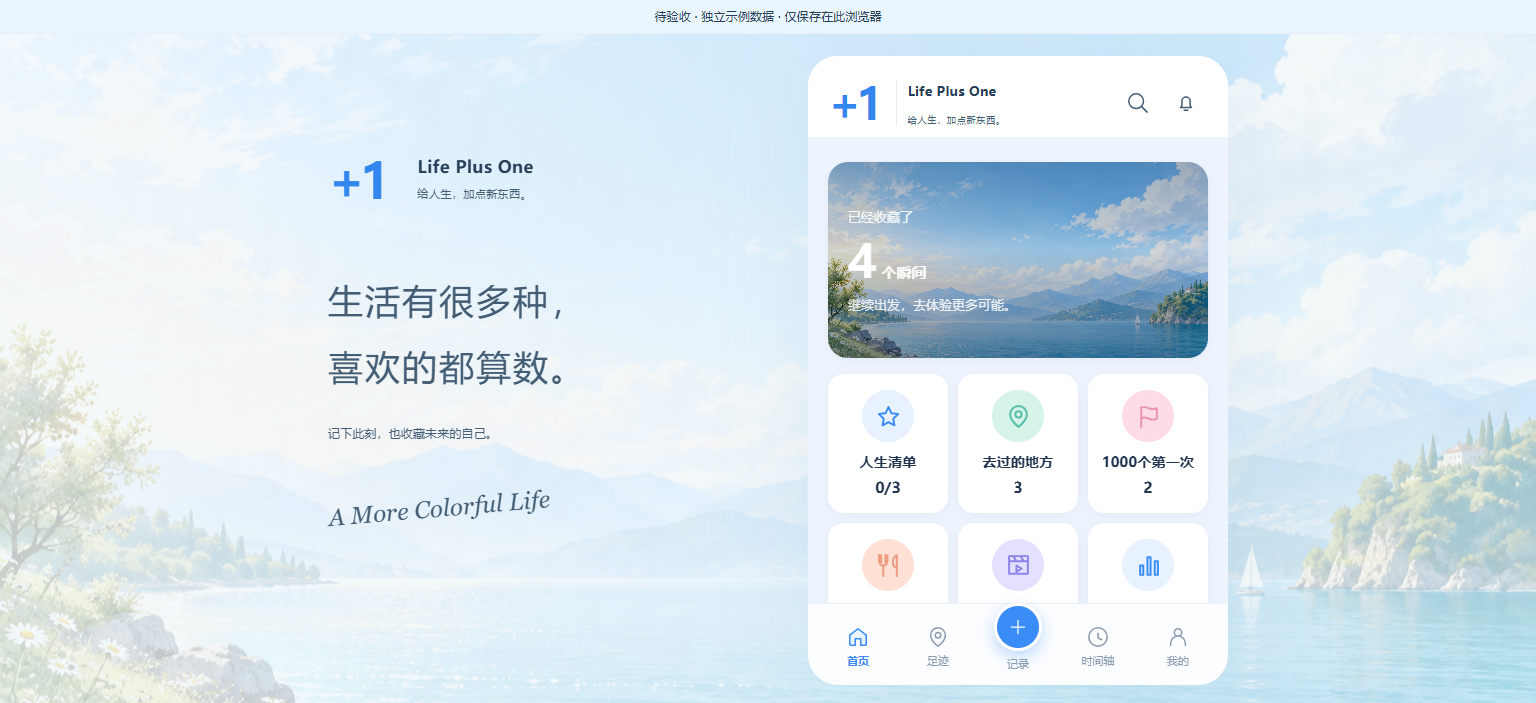
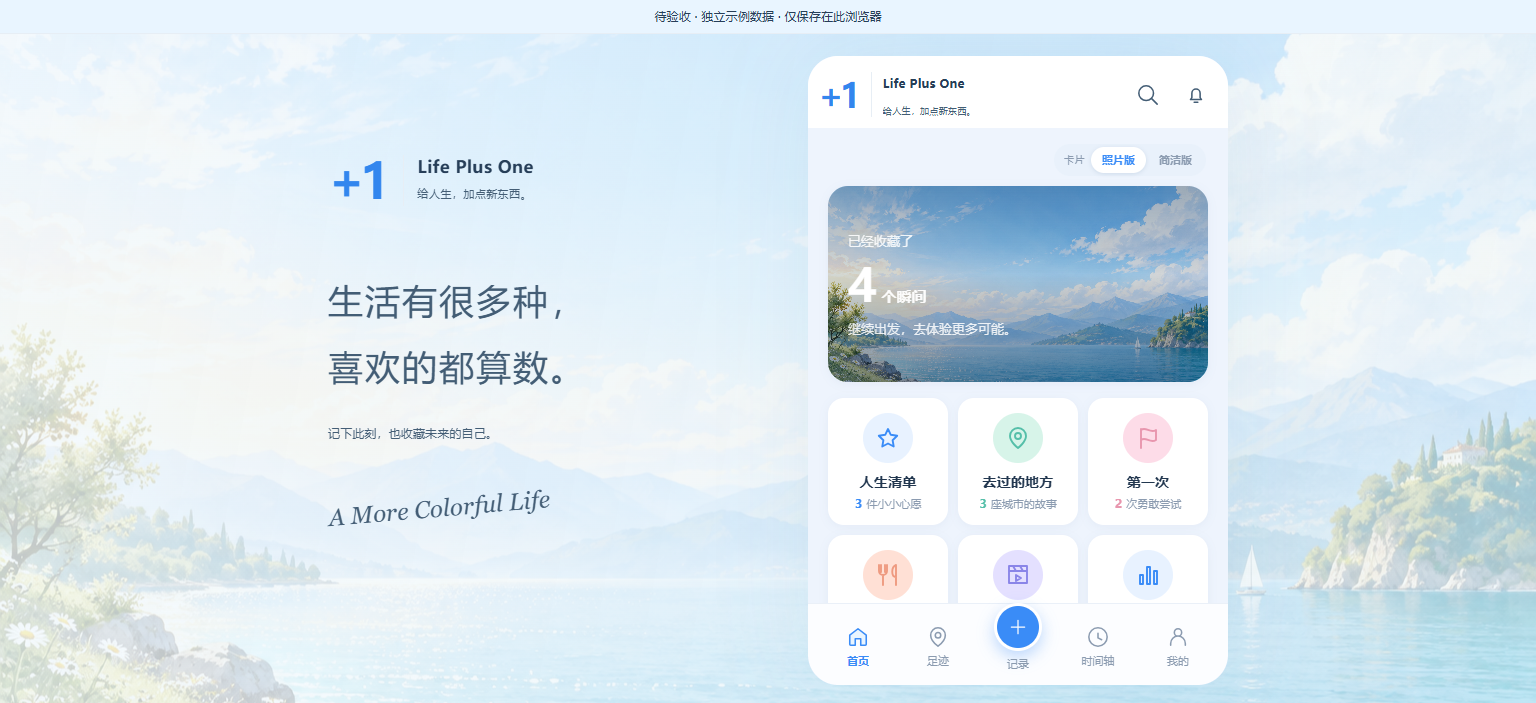
home: smaller wordmark, switchable hero format, codex module copy
- brand: +1 44px -> 34px, name 12px, sub 8.5px; sits 10px/22px from the panel corner
- desktop panel: first-child negative margin is clamped by the scroll container, so the
  lift comes from .page-content.page-home padding-top (16px) instead
- hero: new "classic" format (codex light gradient + right-hand photo + blue number + +1
  badge + caption) selectable from a pill switch next to the greeting row; stored in
  life-plus-one-review-home-style and kept across reloads
- modules: codex copy (3 件小小心愿 / 3 座城市的故事 / 2 次勇敢尝试 / 1 份味觉记忆 /
  0 场光影之旅 / 关于我的小小宇宙) with the count in each tile's accent colour
- switch keeps a 44px hit area while looking like a 28px pill (verify-experience enforces it)
- add verify-home-cards.cjs; verify-experience 77+5 checks and verify-desktop-shell still pass

diff --git a/prototype.css b/prototype.css
@@ -53,10 +53,50 @@
 }
 
 /* ── 首页品牌栏 ───────────────────────────────────
- * logo 完全沿用 codex 原样（字号 / 字重 / 字距都不覆盖）。 */
+ * 字形与字重沿用 codex 原样，整体收小一档并贴近左上角。
+ * 桌面面板里首个子元素的负外边距会被滚动容器夹住，所以靠页面留白上提。 */
+.phone .app-header { margin: -6px 0 18px; }
+.phone > .page-content.page-home { padding-top: 20px; }
+.phone .app-header .brand { gap: 11px; }
+.phone .app-header .brand > b { font-size: 34px; letter-spacing: -4px; padding-right: 3px; }
+.phone .app-header .brand > span { font-size: 12px; padding-left: 11px; }
+.phone .app-header .brand small { font-size: 8.5px; margin-top: 4px; letter-spacing: .8px; }
 .header-tools { gap: 4px; }
 .header-tools .icon-button { width: var(--pro-tap); height: var(--pro-tap); }
 .hello-line { display: none; }
+
+/* ── 首页卡片样式切换（照片版 / 简洁版） ──────────────
+ * 视觉上是小胶囊，按钮盒仍保留 44px 触控区（验收脚本会检查）。 */
+.home-toolbar { display: flex; align-items: center; justify-content: flex-end; gap: 6px; margin: 0 2px 4px; }
+.home-toolbar .hello-line {
+  display: flex;
+  align-items: center;
+  justify-content: space-between;
+  gap: 7px;
+  flex: 1;
+  min-width: 0;
+  margin: 0;
+  font: 500 12px/18px var(--font-ui);
+  color: var(--pro-sub);
+  white-space: nowrap;
+  overflow: hidden;
+}
+.home-toolbar .hello-line .icon { width: 16px; height: 16px; color: var(--greeting-sun); flex-shrink: 0; }
+.style-switch { display: inline-flex; align-items: center; flex-shrink: 0; }
+.style-switch-label { padding: 0 5px 0 2px; font: 500 10px/16px var(--font-ui); color: var(--pro-sub); letter-spacing: .5px; }
+.style-switch button { display: grid; place-items: center; min-height: var(--pro-tap); min-width: var(--pro-tap); padding: 0 2px; border: 0; background: transparent; }
+.style-switch button > span {
+  display: grid;
+  place-items: center;
+  height: 28px;
+  padding: 0 12px;
+  border-radius: 999px;
+  font: 600 11px/16px var(--font-ui);
+  color: var(--pro-sub);
+  white-space: nowrap;
+  transition: background .2s, color .2s;
+}
+.style-switch button.is-on > span { background: var(--pro-blue-wash); color: var(--pro-blue); box-shadow: inset 0 0 0 1px rgba(58, 140, 247, .22); }
 
 /* ── 首页 Hero：湖景照片 + 白色大数字 ───────────────── */
 .life-banner {
@@ -90,38 +130,68 @@
 .banner-copy p { font: 500 13px/20px var(--font-ui); color: rgba(255, 255, 255, .86); }
 .banner-caption { display: none; }
 
-/* ── 六宫格：彩色圆底图标 + 数字统计 ────────────────── */
+/* codex 简洁版卡片：浅色渐变 + 右侧露出照片 + 深蓝数字 + 落款 */
+.life-banner.style-classic { min-height: 168px; padding: 22px 20px; background: var(--blue-soft); }
+.life-banner.style-classic:before { background-position: center 61%; }
+.life-banner.style-classic:after { background: linear-gradient(90deg, var(--hero-wash-start), var(--hero-wash-mid) 62%, var(--hero-wash-end)); }
+.life-banner.style-classic .banner-copy { color: var(--pro-sub); }
+.life-banner.style-classic .banner-copy > span { font: 500 12px/18px var(--font-ui); color: var(--pro-sub); }
+.life-banner.style-classic .banner-copy > div { margin: 7px 0 10px; font: 500 12px/18px var(--font-ui); color: var(--pro-sub); }
+.life-banner.style-classic .banner-copy strong { font: 600 42px/50px var(--font-ui); letter-spacing: -.01em; color: var(--blue-deep); }
+.life-banner.style-classic .banner-copy em {
+  display: inline-block;
+  align-self: flex-start;
+  margin-top: 5px;
+  padding: 3px 8px;
+  border-radius: 10px;
+  background: rgba(255, 255, 255, .85);
+  font: 600 13px/18px var(--font-ui);
+  font-style: normal;
+  color: var(--pro-blue);
+}
+.life-banner.style-classic .banner-copy p { font: 500 11px/17px var(--font-ui); color: var(--pro-sub); }
+.life-banner.style-classic .banner-caption {
+  display: block;
+  position: absolute;
+  right: 16px;
+  bottom: 14px;
+  font: italic 13px Georgia, serif;
+  color: #7d95ad;
+  transform: rotate(-7deg);
+}
+
+/* ── 六宫格：彩色圆底图标 + codex 的说明文案 ────────── */
 .modules { gap: 10px; margin-block: 16px 20px; }
 .module {
   --tile: var(--pro-surface);
   background: var(--pro-surface);
   border: 0;
   border-radius: var(--pro-r-md);
-  padding: 16px 6px 14px;
-  min-height: 112px;
+  padding: 15px 5px 13px;
+  min-height: 106px;
   gap: 0;
   box-shadow: var(--pro-shadow);
 }
 .module .module-icon {
-  width: 52px;
-  height: 52px;
-  margin-bottom: 10px;
+  width: 50px;
+  height: 50px;
+  margin-bottom: 9px;
   border-radius: 50%;
   background: var(--icon-wash);
   color: var(--tone);
   filter: none;
 }
-.module .module-icon .icon { width: 25px; height: 25px; fill: none; stroke-width: 1.9; }
+.module .module-icon .icon { width: 24px; height: 24px; fill: none; stroke-width: 1.9; }
 .module strong { font: 600 14px/20px var(--font-ui); color: var(--pro-ink); }
 .module small,
 .module .module-number {
   display: block;
-  margin-top: 5px;
-  font: var(--pro-num);
-  color: var(--pro-ink);
+  margin-top: 4px;
+  font: 500 11px/16px var(--font-ui);
+  color: var(--pro-sub);
   white-space: nowrap;
 }
-.module small { font: var(--pro-num); color: var(--pro-ink); }
+.module small b { margin-right: 1px; font: 700 12px/16px var(--font-ui); color: var(--tone); }
 
 .module.wish { --tile: var(--pro-surface); --tone: var(--pro-blue); --icon-wash: var(--pro-blue-wash); }
 .module.place { --tone: var(--place); --icon-wash: var(--place-icon-wash); }
@@ -480,8 +550,12 @@
     height: calc(100dvh - 74px);
   }
 
+  /* 品牌栏贴近左上角；sticky 的 top 与 padding-top 保持一致，滚动时不遮挡内容 */
+  .phone .app-header { top: -16px; margin: -16px -24px 16px; padding: 16px 14px 10px; }
+  .phone > .page-content.page-home { padding-top: 16px; }
+
   /* 滚动后的紧凑页眉：缩得更多，占的版面更少 */
-  .phone .app-header.is-compact { padding-top: 12px; padding-bottom: 6px; box-shadow: 0 4px 10px rgba(36, 76, 106, .06); }
+  .phone .app-header.is-compact { padding-top: 16px; padding-bottom: 4px; box-shadow: 0 4px 10px rgba(36, 76, 106, .06); }
   .phone .app-header.is-compact .brand > b { font-size: 24px; letter-spacing: -3px; }
   .phone .app-header.is-compact .brand > span { font-size: 11px; }
   .phone .app-header.is-compact .header-tools .icon-button { width: 32px; height: 32px; min-width: 32px; min-height: 32px; }
@@ -512,4 +586,9 @@
 /* 网格卡标题允许两行；清单工具行收紧 */
 .record-list.grid-2 .record h3 { -webkit-line-clamp: 2; }
 .wish-tools .pill { padding: 0 12px; }
-.module small { font-size: 15px; }
+@media (max-width: 380px) {
+  .module small,
+  .module .module-number { font-size: 10px; }
+  .style-switch button > span { padding: 0 9px; }
+  .home-toolbar .hello-line { font-size: 11px; }
+}

diff --git a/docs/PROTOTYPE_ALIGNMENT.md b/docs/PROTOTYPE_ALIGNMENT.md
@@ -45,3 +45,21 @@
 | 滚动后页眉 | 81px 高，`+1` 44→32px | 51px 高，`+1` 24px、名称 11px、图标按钮 32px（需同时覆盖 `min-height:44px`） |
 
 自查脚本：`verify-desktop-shell.cjs`（1536×703 渲染、滚动前后各截图一次并输出关键尺寸）。
+
+## 第三轮修订（品牌与首页卡片）
+
+| 项 | 修订前 | 修订后 |
+| --- | --- | --- |
+| 首页品牌 | codex 原值：`+1` 44px、距面板左 20px、上 39px | `+1` 34px、距面板左 10px、上 22px；名称 12px、副标 8.5px（字形与字重仍沿用 codex） |
+| 首页卡片格式 | 仅原型照片版 | 新增 codex 简洁版，用户可在页面上切换；选择写入 `life-plus-one-review-home-style`，刷新后保持 |
+| 简洁版卡片 | — | 浅色渐变 + 右侧露出湖景照 + 深蓝数字 + `+1` 徽标 + 手写体落款；页面上方恢复「嗨，今天也很高兴见到你」问候行 |
+| 六宫格文案 | 纯数字统计（如 `0/3`、`3`、`2`） | 采用 codex 说明文案：`3 件小小心愿` / `3 座城市的故事` / `2 次勇敢尝试` / `1 份味觉记忆` / `0 场光影之旅` / `关于我的小小宇宙`，数字用各宫格强调色 |
+| 六宫格标题 | 1000个第一次 / 美食记录 / 电影记录 | 第一次 / 美食 / 电影（与 codex 一致） |
+
+实现要点：
+
+- 切换控件为小胶囊（视觉 28px），按钮盒仍保留 44px 触控区——`verify-experience.cjs` 会检查所有 button 的点击面积。
+- 桌面面板内首个子元素的负 `margin-top` 会被滚动容器夹住，因此品牌上移改为调整 `.page-content.page-home` 的顶部留白（16px）。
+- 两种格式互不影响数据层：照片版沿用原型文案，简洁版沿用 codex 文案。
+
+自查脚本：`verify-home-cards.cjs`（品牌几何 + 两种卡片 + 切换持久化 + 六宫格文案，并输出 `verification/home-photo.png`、`home-classic.png`、`home-375-*.png`）。
